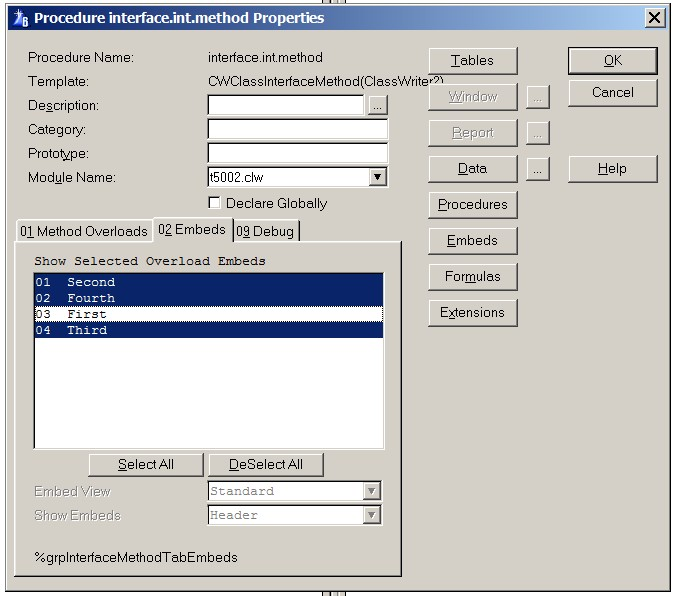
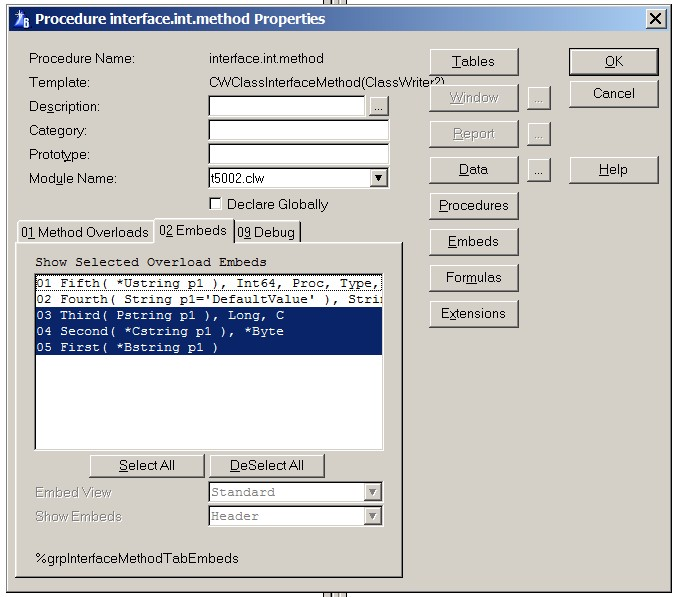
a

diff --git a/README.md b/README.md
@@ -134,6 +134,8 @@ Select Method/Procedure Overloads to appear in the Embed Editor.
 
 ![AppGen Overload Embed Editor](https://github.com/Intelligent-Silicon/Clarion-Class-Writing-Template/blob/main/Pics/AppGen-Overload-EmbedEditor.jpg)
 
+![AppGen Overload View Source](https://github.com/Intelligent-Silicon/Clarion-Class-Writing-Template/blob/main/Pics/AppGen-Overload-ViewSource.jpg)
+
 Selected Method/Procedure Overloads appear in required sort order in Embed Editor and View Source window.
 
 This makes it quicker and easier to edit one or more Overloads, taking code snippets from one or more previously declared and coded Overloads where necessary.
